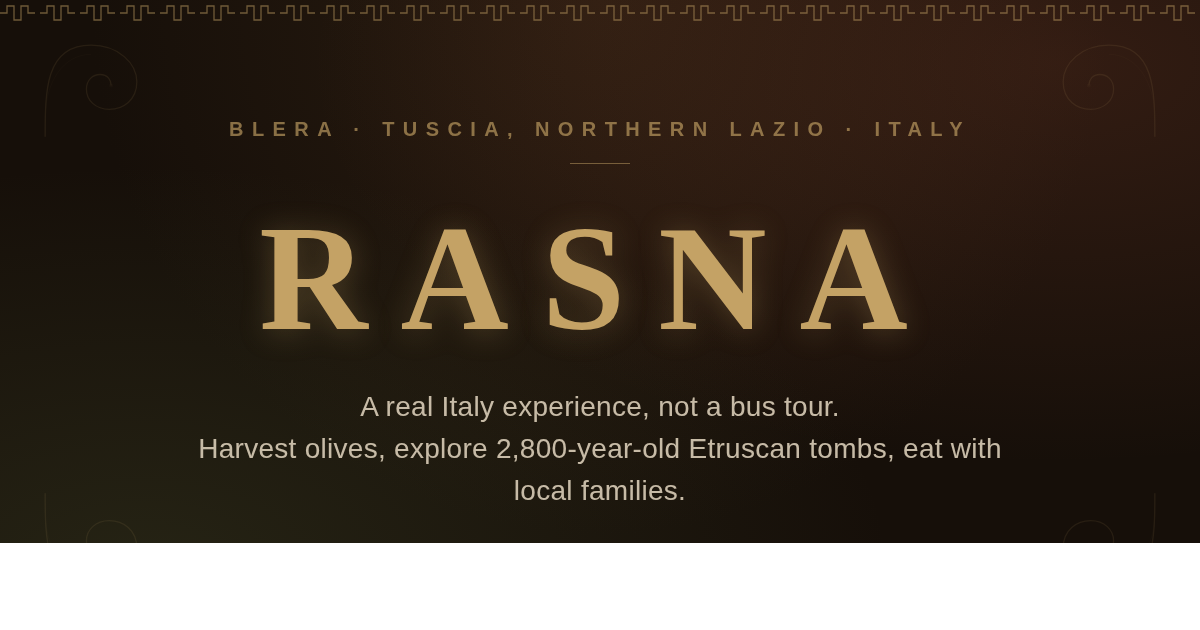
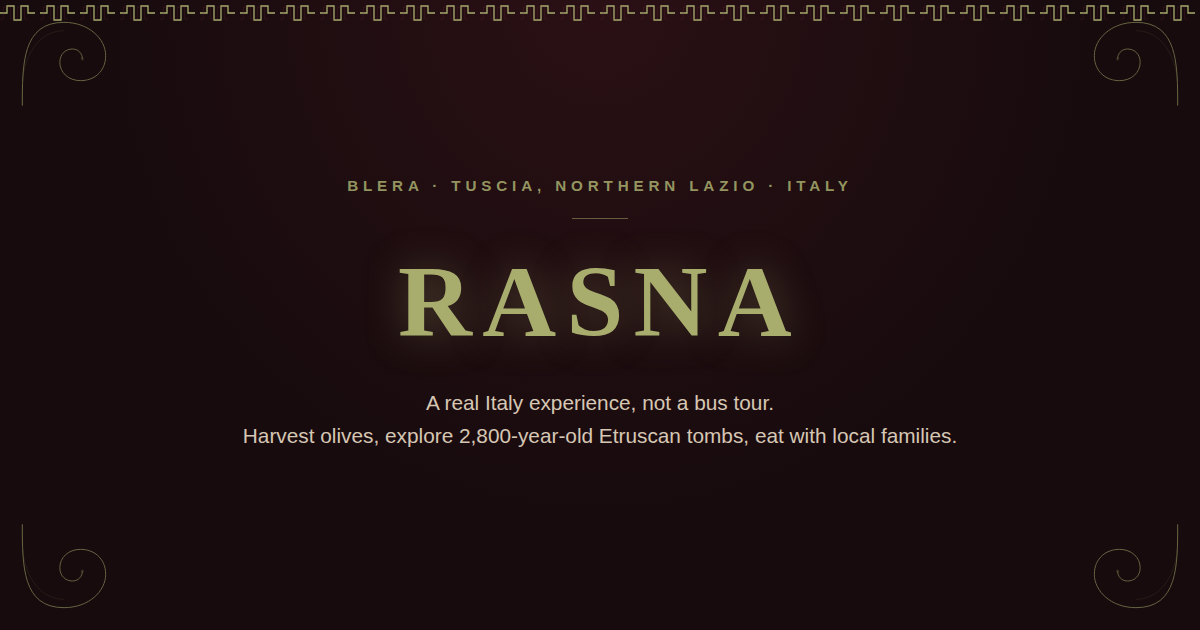
Recolor brand identity assets to match olive/bordeaux palette
Regenerates the social-share og-image.png in the new olive-green and
bordeaux color scheme, and updates the brand identity description in
BUSINESS_PLAN.md accordingly.

diff --git a/BUSINESS_PLAN.md b/BUSINESS_PLAN.md
@@ -124,7 +124,7 @@ These aren't separate attractions to manage — they're moments the town already
 - Deployed via GitHub Pages (branch-based deploy from `main`)
 - Form submissions via Formspree (https://formspree.io/f/xlgynpjo)
 - Auto-translates to visitor's browser language (EN, IT, DE, FR, ES, NL)
-- Etruscan-inspired brand identity (terracotta, earth tones, Cormorant Garamond)
+- Etruscan-inspired brand identity (olive green, bordeaux, earth tones, Cormorant Garamond)
 
 **Activities on the landing page (client-facing, finalized):**
 
